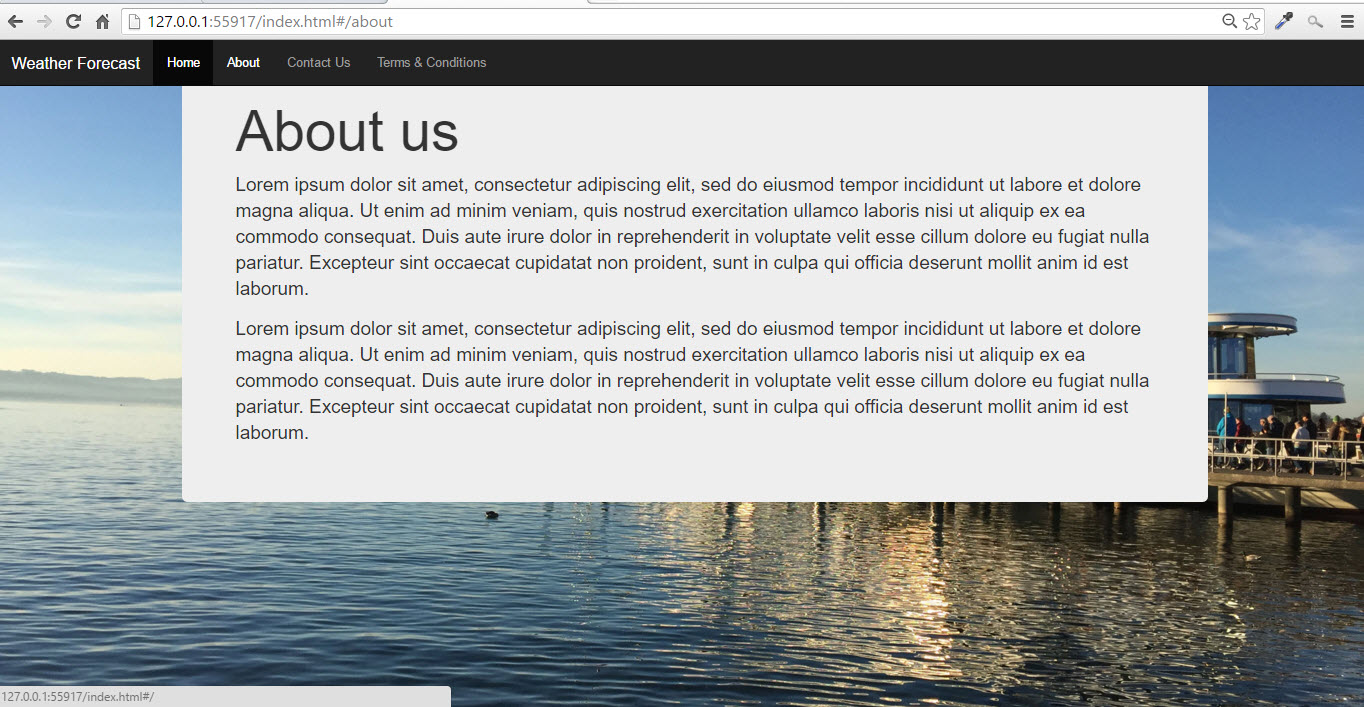
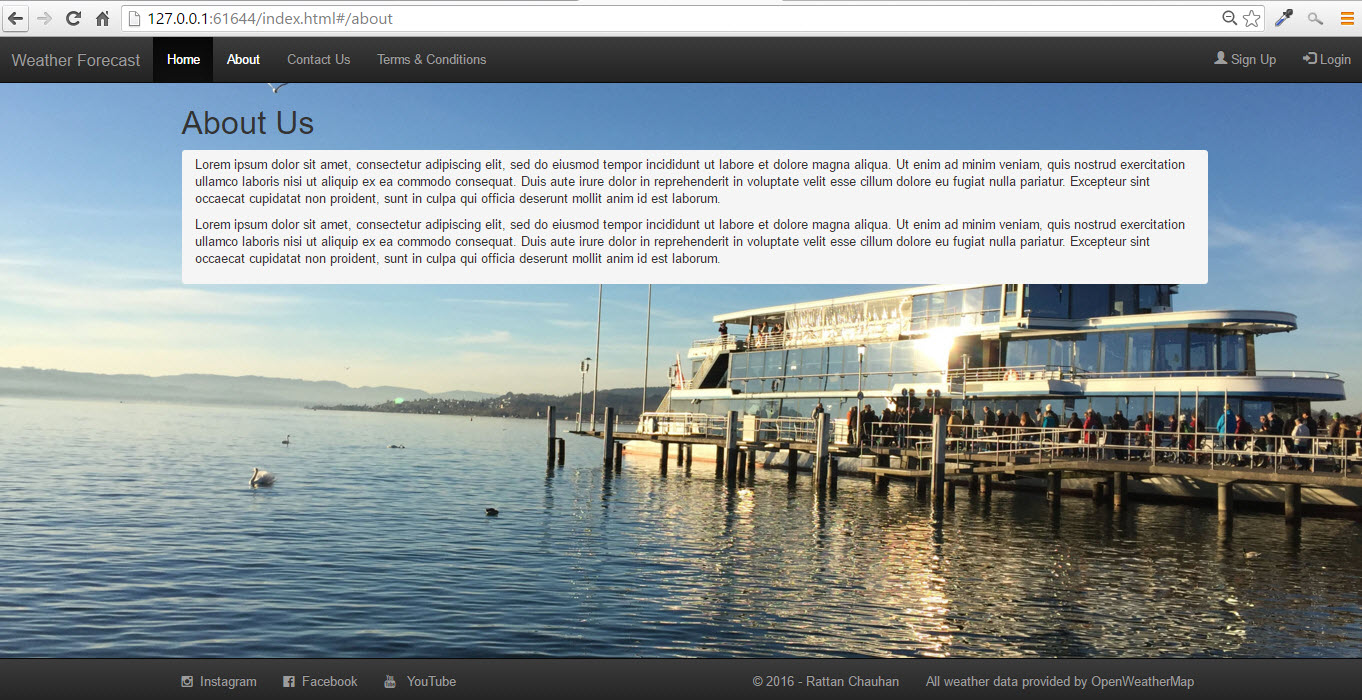
Updating terms & conditions page, fixed bug with brand link on homepage, screenshots updated to latest version

diff --git a/pages/tc.html b/pages/tc.html
@@ -1,13 +1,23 @@
 <div class="container">
-  <div class="jumbotron">
-	  <h1>Terms & Conditions</h1>
-	<p>Lorem ipsum dolor sit amet, consectetur adipiscing elit, sed do eiusmod tempor incididunt ut labore et dolore magna aliqua. Ut enim ad minim veniam, quis nostrud exercitation ullamco laboris nisi ut aliquip ex ea commodo consequat. Duis aute irure dolor in reprehenderit in voluptate velit esse cillum dolore eu fugiat nulla pariatur. Excepteur sint occaecat cupidatat non proident, sunt in culpa qui officia deserunt mollit anim id est laborum.</p> 
-	<p>Lorem ipsum dolor sit amet, consectetur adipiscing elit, sed do eiusmod tempor incididunt ut labore et dolore magna aliqua. Ut enim ad minim veniam, quis nostrud exercitation ullamco laboris nisi ut aliquip ex ea commodo consequat. Duis aute irure dolor in reprehenderit in voluptate velit esse cillum dolore eu fugiat nulla pariatur. Excepteur sint occaecat cupidatat non proident, sunt in culpa qui officia deserunt mollit anim id est laborum.</p>
-		
-	<p>Lorem ipsum dolor sit amet, consectetur adipiscing elit, sed do eiusmod tempor incididunt ut labore et dolore magna aliqua. Ut enim ad minim veniam, quis nostrud exercitation ullamco laboris nisi ut aliquip ex ea commodo consequat. Duis aute irure dolor in reprehenderit in voluptate velit esse cillum dolore eu fugiat nulla pariatur. Excepteur sint occaecat cupidatat non proident, sunt in culpa qui officia deserunt mollit anim id est laborum.</p> 
-	<p>Lorem ipsum dolor sit amet, consectetur adipiscing elit, sed do eiusmod tempor incididunt ut labore et dolore magna aliqua. Ut enim ad minim veniam, quis nostrud exercitation ullamco laboris nisi ut aliquip ex ea commodo consequat. Duis aute irure dolor in reprehenderit in voluptate velit esse cillum dolore eu fugiat nulla pariatur. Excepteur sint occaecat cupidatat non proident, sunt in culpa qui officia deserunt mollit anim id est laborum.</p>
-		
-	<p>Lorem ipsum dolor sit amet, consectetur adipiscing elit, sed do eiusmod tempor incididunt ut labore et dolore magna aliqua. Ut enim ad minim veniam, quis nostrud exercitation ullamco laboris nisi ut aliquip ex ea commodo consequat. Duis aute irure dolor in reprehenderit in voluptate velit esse cillum dolore eu fugiat nulla pariatur. Excepteur sint occaecat cupidatat non proident, sunt in culpa qui officia deserunt mollit anim id est laborum.</p> 
-	<p>Lorem ipsum dolor sit amet, consectetur adipiscing elit, sed do eiusmod tempor incididunt ut labore et dolore magna aliqua. Ut enim ad minim veniam, quis nostrud exercitation ullamco laboris nisi ut aliquip ex ea commodo consequat. Duis aute irure dolor in reprehenderit in voluptate velit esse cillum dolore eu fugiat nulla pariatur. Excepteur sint occaecat cupidatat non proident, sunt in culpa qui officia deserunt mollit anim id est laborum.</p>
-  </div>
+<br><br><br>
+<h2>Terms and Conditions</h2>
+<small>Last updated: April 09, 2016</small>
+	<div class="breadcrumb">
+	Please read these Terms and Conditions ("Terms", "Terms and Conditions") carefully before using the this website (the "Service") operated by this website ("us", "we", or "our").
+	Your access to and use of the Service is conditioned on your acceptance of and compliance with these Terms. These Terms apply to all visitors, users and others who access or use the Service.
+	By accessing or using the Service you agree to be bound by these Terms. If you disagree with any part of the terms then you may not access the Service.
+	<h3>Links To Other Web Sites</h3>
+	Our Service may contain links to third-party web sites or services that are not owned or controlled by ThoughtWizards.
+	ThoughtWizards has no control over, and assumes no responsibility for, the content, privacy policies, or practices of any third party web sites or services. You further acknowledge and agree that ThoughtWizards shall not be responsible or liable, directly or indirectly, for any damage or loss caused or alleged to be caused by or in connection with use of or reliance on any such content, goods or services available on or through any such web sites or services.
+	We strongly advise you to read the terms and conditions and privacy policies of any third-party web sites or services that you visit.
+	<h3>Governing Law</h3>
+	These Terms shall be governed and construed in accordance with the laws of Haryana, India, without regard to its conflict of law provisions.
+	Our failure to enforce any right or provision of these Terms will not be considered a waiver of those rights. If any provision of these Terms is held to be invalid or unenforceable by a court, the remaining provisions of these Terms will remain in effect. These Terms constitute the entire agreement between us regarding our Service, and supersede and replace any prior agreements we might have between us regarding the Service.
+	<h3>Changes</h3>
+	We reserve the right, at our sole discretion, to modify or replace these Terms at any time. If a revision is material we will try to provide at least 30 days notice prior to any new terms taking effect. What constitutes a material change will be determined at our sole discretion.
+	By continuing to access or use our Service after those revisions become effective, you agree to be bound by the revised terms. If you do not agree to the new terms, please stop using the Service.
+	<h3>Contact Us</h3>
+	If you have any questions about these Terms, please contact us using contact form here <a class="btn btn-danger" href="#/contact">Contact us</a>.
+	</div>
+<hr>
 </div>

diff --git a/pages/about.html b/pages/about.html
@@ -1,7 +1,8 @@
 <div class="container">
-  <div class="jumbotron">
-    <h1>About us</h1> 
+<br><br><br>
+<h1>About Us</h1> 
+<div class="breadcrumb">
 <p>Lorem ipsum dolor sit amet, consectetur adipiscing elit, sed do eiusmod tempor incididunt ut labore et dolore magna aliqua. Ut enim ad minim veniam, quis nostrud exercitation ullamco laboris nisi ut aliquip ex ea commodo consequat. Duis aute irure dolor in reprehenderit in voluptate velit esse cillum dolore eu fugiat nulla pariatur. Excepteur sint occaecat cupidatat non proident, sunt in culpa qui officia deserunt mollit anim id est laborum.</p> 
 <p>Lorem ipsum dolor sit amet, consectetur adipiscing elit, sed do eiusmod tempor incididunt ut labore et dolore magna aliqua. Ut enim ad minim veniam, quis nostrud exercitation ullamco laboris nisi ut aliquip ex ea commodo consequat. Duis aute irure dolor in reprehenderit in voluptate velit esse cillum dolore eu fugiat nulla pariatur. Excepteur sint occaecat cupidatat non proident, sunt in culpa qui officia deserunt mollit anim id est laborum.</p> 
-  </div>
+</div>
 </div>

diff --git a/index.html b/index.html
@@ -41,7 +41,7 @@
         <span class="icon-bar"></span>
         <span class="icon-bar"></span> 
       </button>
-      <a class="navbar-brand" href="#">Weather Forecast</a>
+      <a class="navbar-brand" href="#/">Weather Forecast</a>
     </div>
     <div class="collapse navbar-collapse" id="homeNavBar">
       <ul class="nav navbar-nav">
@@ -68,7 +68,7 @@
 <script src="lib/js/bootstrap.min.js"></script>
 
 <!-- Nvbar bottom -->
-<div class="navbar navbar-inverse navbar-fixed-bottom">
+<footer class="navbar navbar-inverse navbar-fixed-bottom">
     <div class="container">
 		<div class="nav navbar-nav navbar-right">
 		  <li><a href="#/">&copy; 2016 - Rattan Chauhan</a></li>
@@ -82,7 +82,7 @@
         
 		</div>
       </div><!-- end Container -->
-</div>	
+</footer>	
 	
 </body>
 
